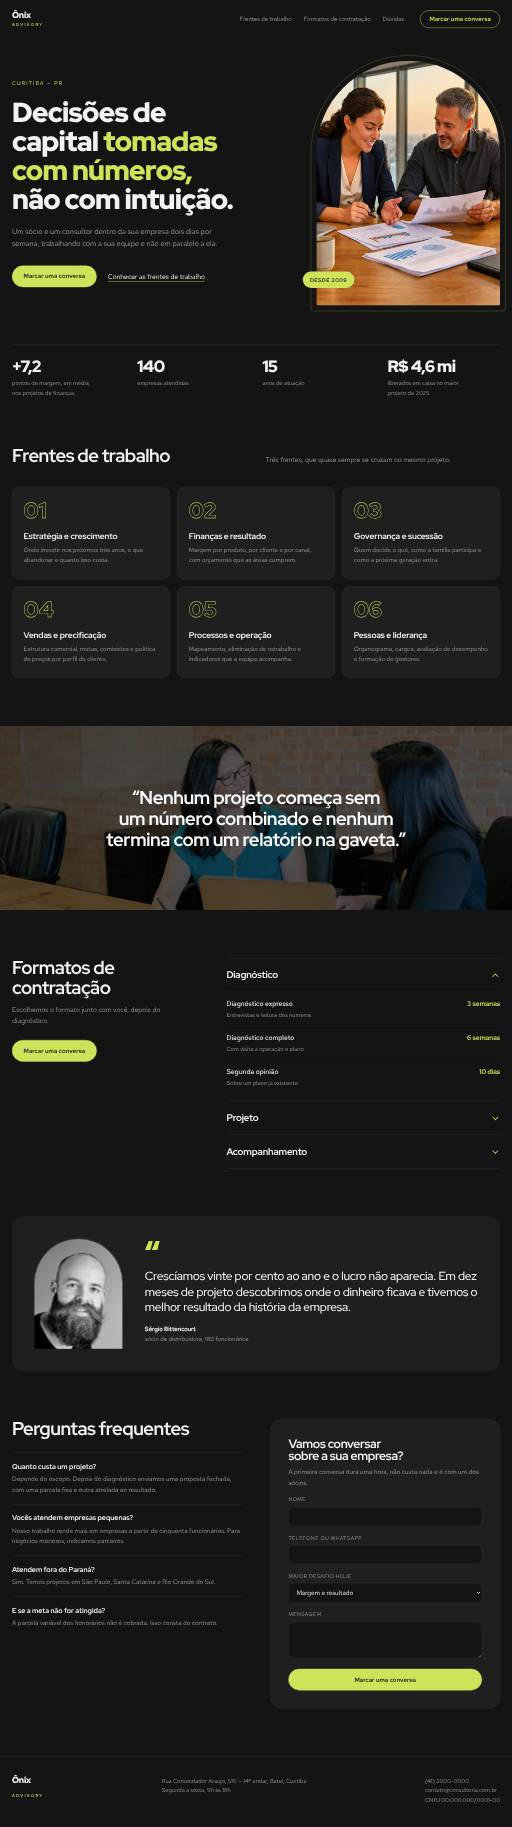
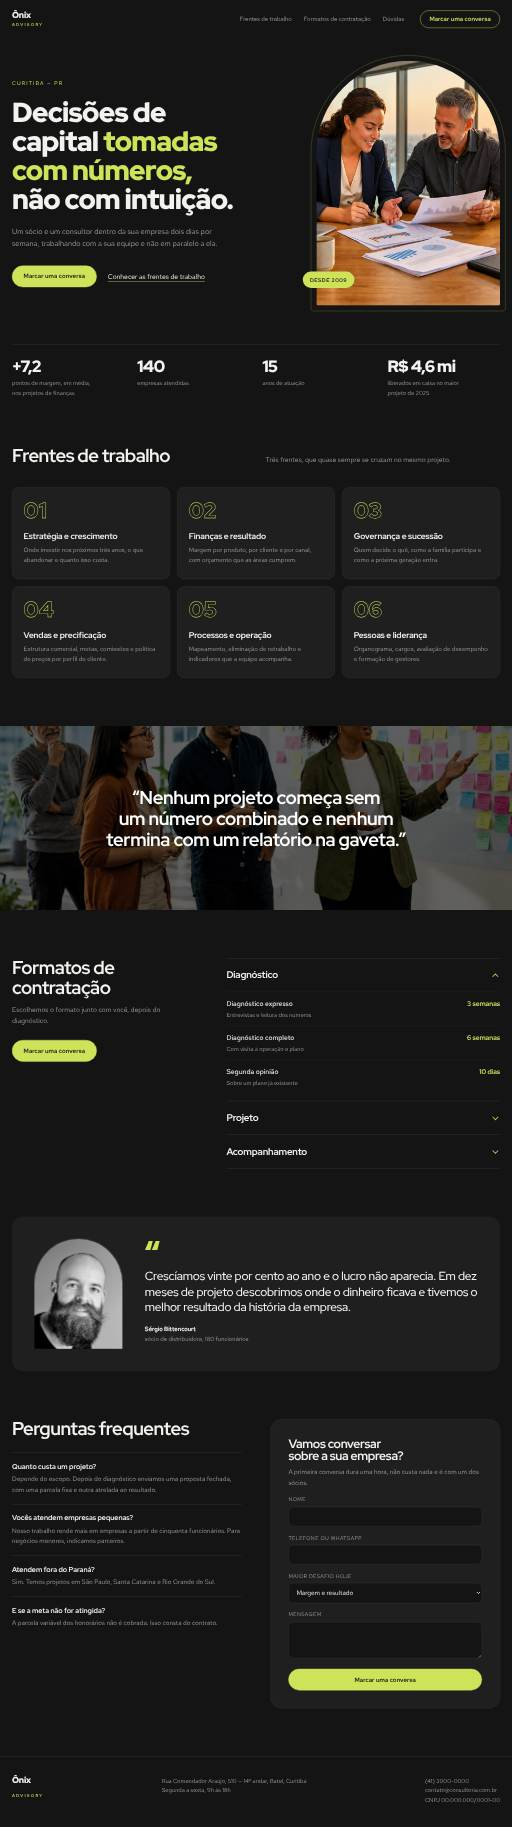
Bring consultoria to 10 photos
Claude-Session: https://claude.ai/code/session_0151Yi9K8yWSyYvoKWm1KgPz

Changed region(s): [[0.0, 0.3744, 1.0, 0.4992]]

diff --git a/kolp-modelos/demo/consultoria-08/index.html b/kolp-modelos/demo/consultoria-08/index.html
@@ -34,17 +34,17 @@
     <p class="lide">A primeira conversa dura uma hora e não custa nada. Se não formos a consultoria certa para o seu momento, dizemos isso.</p>
     <div class="acoes"><a class="botao" href="#contato">Marcar uma conversa</a><a class="elo" href="#servicos">Conhecer as frentes de trabalho</a></div>
     <div class="mosaico">
-      <img class="m1" src="../../fotos/consultoria/2.jpg" alt="" width="1400" height="930">
-      <img class="m2" src="../../fotos/consultoria/1.jpg" alt="" width="1400" height="930">
-      <img class="m3" src="../../fotos/consultoria/3.jpg" alt="" width="1400" height="930">
+      <img class="m1" src="../../fotos/consultoria/9.jpg" alt="" width="1400" height="930">
+      <img class="m2" src="../../fotos/consultoria/8.jpg" alt="" width="1400" height="930">
+      <img class="m3" src="../../fotos/consultoria/10.jpg" alt="" width="1400" height="930">
       <p class="selo"><b>+7,2</b>pontos de margem, em média, nos projetos de finanças</p>
     </div>
   </div></section>
   <section class="pontos"><ul class="largura"><li class="rev">Projetos conduzidos pelos sócios</li><li class="rev">Meta em número e prazo para acabar</li><li class="rev">Honorários atrelados ao resultado</li></ul></section>
   <section class="servicos" id="servicos"><div class="largura">
     <header class="topo rev"><h2>Frentes de trabalho</h2><p>Três frentes, que quase sempre se cruzam no mesmo projeto.</p></header>
-    <div class="par rev"><img src="../../fotos/consultoria/4.jpg" alt="" width="1400" height="930" loading="lazy"><ul><li><h3>Estratégia e crescimento</h3><p>Onde investir nos próximos três anos, o que abandonar e quanto isso custa.</p></li><li><h3>Finanças e resultado</h3><p>Margem por produto, por cliente e por canal, com orçamento que as áreas cumprem.</p></li><li><h3>Governança e sucessão</h3><p>Quem decide o quê, como a família participa e como a próxima geração entra.</p></li></ul></div>
-    <div class="par par-inv rev"><img src="../../fotos/consultoria/5.jpg" alt="" width="1400" height="930" loading="lazy"><ul><li><h3>Vendas e precificação</h3><p>Estrutura comercial, metas, comissões e política de preços por perfil de cliente.</p></li><li><h3>Processos e operação</h3><p>Mapeamento, eliminação de retrabalho e indicadores que a equipe acompanha.</p></li><li><h3>Pessoas e liderança</h3><p>Organograma, cargos, avaliação de desempenho e formação de gestores.</p></li></ul></div>
+    <div class="par rev"><img src="../../fotos/consultoria/1.jpg" alt="" width="1400" height="930" loading="lazy"><ul><li><h3>Estratégia e crescimento</h3><p>Onde investir nos próximos três anos, o que abandonar e quanto isso custa.</p></li><li><h3>Finanças e resultado</h3><p>Margem por produto, por cliente e por canal, com orçamento que as áreas cumprem.</p></li><li><h3>Governança e sucessão</h3><p>Quem decide o quê, como a família participa e como a próxima geração entra.</p></li></ul></div>
+    <div class="par par-inv rev"><img src="../../fotos/consultoria/2.jpg" alt="" width="1400" height="930" loading="lazy"><ul><li><h3>Vendas e precificação</h3><p>Estrutura comercial, metas, comissões e política de preços por perfil de cliente.</p></li><li><h3>Processos e operação</h3><p>Mapeamento, eliminação de retrabalho e indicadores que a equipe acompanha.</p></li><li><h3>Pessoas e liderança</h3><p>Organograma, cargos, avaliação de desempenho e formação de gestores.</p></li></ul></div>
   </div></section>
   <section class="precos" id="precos"><div class="largura">
     <header class="topo rev"><h2>Formatos de contratação</h2><p>Escolhemos o formato junto com você, depois do diagnóstico.</p></header>

diff --git a/kolp-modelos/demo/consultoria-07/index.html b/kolp-modelos/demo/consultoria-07/index.html
@@ -43,7 +43,7 @@
     <header class="topo rev"><h2>Frentes de trabalho</h2><p>Três frentes, que quase sempre se cruzam no mesmo projeto.</p></header>
     <ol class="cartoes"><li class="rev"><h3>Estratégia e crescimento</h3><p>Onde investir nos próximos três anos, o que abandonar e quanto isso custa.</p></li><li class="rev"><h3>Finanças e resultado</h3><p>Margem por produto, por cliente e por canal, com orçamento que as áreas cumprem.</p></li><li class="rev"><h3>Governança e sucessão</h3><p>Quem decide o quê, como a família participa e como a próxima geração entra.</p></li><li class="rev"><h3>Vendas e precificação</h3><p>Estrutura comercial, metas, comissões e política de preços por perfil de cliente.</p></li><li class="rev"><h3>Processos e operação</h3><p>Mapeamento, eliminação de retrabalho e indicadores que a equipe acompanha.</p></li><li class="rev"><h3>Pessoas e liderança</h3><p>Organograma, cargos, avaliação de desempenho e formação de gestores.</p></li></ol>
   </div></section>
-  <section class="faixa rev"><img src="../../fotos/consultoria/1.jpg" alt="" width="1400" height="930" loading="lazy"><p>“Nenhum projeto começa sem um número combinado e nenhum termina com um relatório na gaveta.”</p></section>
+  <section class="faixa rev"><img src="../../fotos/consultoria/8.jpg" alt="" width="1400" height="930" loading="lazy"><p>“Nenhum projeto começa sem um número combinado e nenhum termina com um relatório na gaveta.”</p></section>
   <section class="precos" id="precos"><div class="largura precos-grade">
     <div class="precos-lado rev"><h2>Formatos de contratação</h2><p>Escolhemos o formato junto com você, depois do diagnóstico.</p><a class="botao" href="#contato">Marcar uma conversa</a></div>
     <div class="rev"><details open><summary>Diagnóstico</summary><ul><li><div><b>Diagnóstico expresso</b><span>Entrevistas e leitura dos números</span></div><strong>3 semanas</strong></li><li><div><b>Diagnóstico completo</b><span>Com visita à operação e plano</span></div><strong>6 semanas</strong></li><li><div><b>Segunda opinião</b><span>Sobre um plano já existente</span></div><strong>10 dias</strong></li></ul></details><details><summary>Projeto</summary><ul><li><div><b>Projeto de margem</b><span>Preços, portfólio e custos</span></div><strong>6 meses</strong></li><li><div><b>Plano estratégico</b><span>Com desdobramento em metas</span></div><strong>4 meses</strong></li><li><div><b>Sucessão</b><span>Acordo, conselho e transição</span></div><strong>12 meses</strong></li><li><div><b>Estrutura comercial</b><span>Processo, metas e remuneração</span></div><strong>5 meses</strong></li></ul></details><details><summary>Acompanhamento</summary><ul><li><div><b>Conselho consultivo</b><span>Reunião mensal com os sócios</span></div><strong>mensal</strong></li><li><div><b>Diretor por tempo parcial</b><span>Financeiro ou comercial</span></div><strong>2 dias/semana</strong></li><li><div><b>Mentoria de sucessores</b><span>Encontros quinzenais</span></div><strong>quinzenal</strong></li></ul></details></div>

diff --git a/kolp-modelos/demo/consultoria-10/index.html b/kolp-modelos/demo/consultoria-10/index.html
@@ -30,7 +30,7 @@
 <div class="conteudo">
 <main>
   <section class="abertura">
-    <img src="../../fotos/consultoria/3.jpg" alt="" width="1400" height="930">
+    <img src="../../fotos/consultoria/10.jpg" alt="" width="1400" height="930">
     <div class="legenda"><p class="rotulo">Desde 2009 · Curitiba — PR</p><h1>Sócios com experiência de diretoria dentro da sua empresa toda semana.</h1></div>
   </section>
   <section class="sobre" id="sobre">
@@ -41,7 +41,7 @@
     <header class="topo"><h2>Frentes de trabalho</h2><p>Três frentes, que quase sempre se cruzam no mesmo projeto.</p></header>
     <ul class="servicos"><li><h3>Estratégia e crescimento</h3><p>Onde investir nos próximos três anos, o que abandonar e quanto isso custa.</p></li><li><h3>Finanças e resultado</h3><p>Margem por produto, por cliente e por canal, com orçamento que as áreas cumprem.</p></li><li><h3>Governança e sucessão</h3><p>Quem decide o quê, como a família participa e como a próxima geração entra.</p></li><li><h3>Vendas e precificação</h3><p>Estrutura comercial, metas, comissões e política de preços por perfil de cliente.</p></li><li><h3>Processos e operação</h3><p>Mapeamento, eliminação de retrabalho e indicadores que a equipe acompanha.</p></li><li><h3>Pessoas e liderança</h3><p>Organograma, cargos, avaliação de desempenho e formação de gestores.</p></li></ul>
   </section>
-  <figure class="citacao"><img src="../../fotos/consultoria/4.jpg" alt="" width="1400" height="930" loading="lazy"><blockquote>“Nenhum projeto começa sem um número combinado e nenhum termina com um relatório na gaveta.”</blockquote></figure>
+  <figure class="citacao"><img src="../../fotos/consultoria/1.jpg" alt="" width="1400" height="930" loading="lazy"><blockquote>“Nenhum projeto começa sem um número combinado e nenhum termina com um relatório na gaveta.”</blockquote></figure>
   <section id="equipe">
     <header class="topo"><h2>Sócios</h2><p>Quem vende o projeto é quem conduz o projeto.</p></header>
     <div class="equipe"><article><img src="../../fotos/retratos/m6.jpg" alt="Retrato de Eduardo Vianna" width="560" height="680" loading="lazy"><div><h3>Eduardo Vianna</h3><p class="cargo">Finanças e resultado</p><p>Vinte anos em finanças corporativas, doze deles como diretor financeiro em indústrias de médio porte.</p></div></article><article><img src="../../fotos/retratos/f6.jpg" alt="Retrato de Helena Andrade" width="560" height="680" loading="lazy"><div><h3>Helena Andrade</h3><p class="cargo">Estratégia e vendas</p><p>Ex-diretora comercial de distribuidora nacional. MBA pelo Insper.</p></div></article><article><img src="../../fotos/retratos/m1.jpg" alt="Retrato de Rafael Tanaka" width="560" height="680" loading="lazy"><div><h3>Rafael Tanaka</h3><p class="cargo">Governança e sucessão</p><p>Conselheiro certificado pelo IBGC. Conduziu sucessões em mais de trinta empresas familiares.</p></div></article></div>

diff --git a/kolp-modelos/demo/consultoria-09/index.html b/kolp-modelos/demo/consultoria-09/index.html
@@ -30,7 +30,7 @@
 </div></header>
 <main>
   <section class="abertura">
-    <img src="../../fotos/consultoria/2.jpg" alt="" width="1400" height="930">
+    <img src="../../fotos/consultoria/9.jpg" alt="" width="1400" height="930">
     <div class="abertura-bloco"><div>
       <p class="rotulo">Curitiba — PR</p>
       <h1>Menos retrabalho, menos estoque parado, mais margem no fim do mês.</h1>
@@ -51,7 +51,7 @@
     <header class="topo"><h2>Formatos de contratação</h2><p>Escolhemos o formato junto com você, depois do diagnóstico.</p></header>
     <div class="tabela-rolagem"><table><tbody><tr class="grupo"><th colspan="3">Diagnóstico</th></tr><tr><th>Diagnóstico expresso</th><td>Entrevistas e leitura dos números</td><td>3 semanas</td></tr><tr><th>Diagnóstico completo</th><td>Com visita à operação e plano</td><td>6 semanas</td></tr><tr><th>Segunda opinião</th><td>Sobre um plano já existente</td><td>10 dias</td></tr></tbody><tbody><tr class="grupo"><th colspan="3">Projeto</th></tr><tr><th>Projeto de margem</th><td>Preços, portfólio e custos</td><td>6 meses</td></tr><tr><th>Plano estratégico</th><td>Com desdobramento em metas</td><td>4 meses</td></tr><tr><th>Sucessão</th><td>Acordo, conselho e transição</td><td>12 meses</td></tr><tr><th>Estrutura comercial</th><td>Processo, metas e remuneração</td><td>5 meses</td></tr></tbody><tbody><tr class="grupo"><th colspan="3">Acompanhamento</th></tr><tr><th>Conselho consultivo</th><td>Reunião mensal com os sócios</td><td>mensal</td></tr><tr><th>Diretor por tempo parcial</th><td>Financeiro ou comercial</td><td>2 dias/semana</td></tr><tr><th>Mentoria de sucessores</th><td>Encontros quinzenais</td><td>quinzenal</td></tr></tbody></table></div>
   </div></section>
-  <section class="prova"><img src="../../fotos/consultoria/3.jpg" alt="" width="1400" height="930" loading="lazy">
+  <section class="prova"><img src="../../fotos/consultoria/10.jpg" alt="" width="1400" height="930" loading="lazy">
     <blockquote><p>“Crescíamos vinte por cento ao ano e o lucro não aparecia. Em dez meses de projeto descobrimos onde o dinheiro ficava e tivemos o melhor resultado da história da empresa.”</p><footer><b>Sérgio Bittencourt</b> sócio de distribuidora, 180 funcionários</footer></blockquote>
   </section>
   <section class="contato" id="contato"><div class="largura contato-grade">
